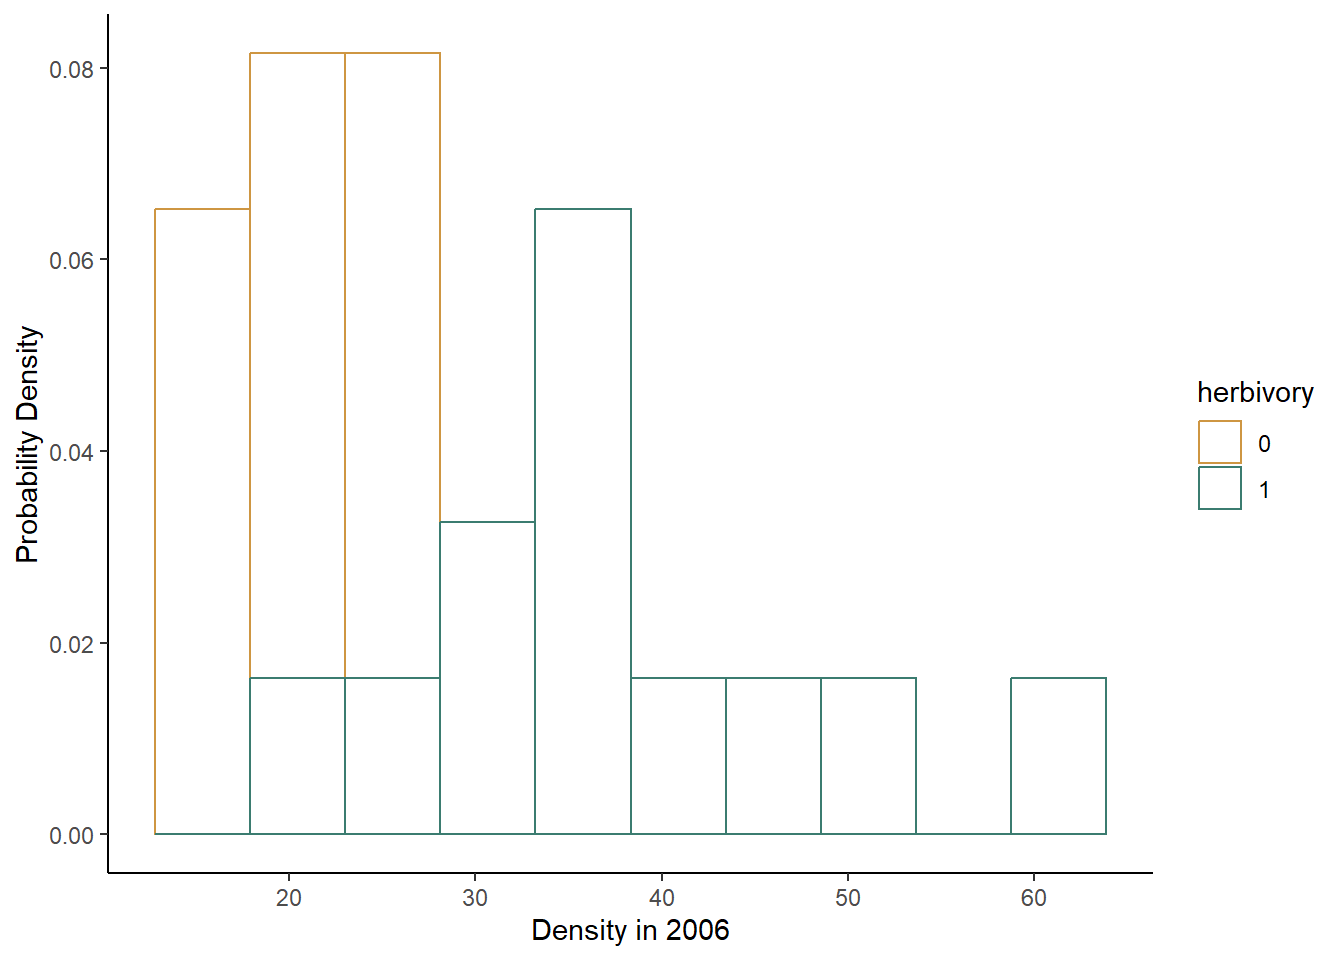
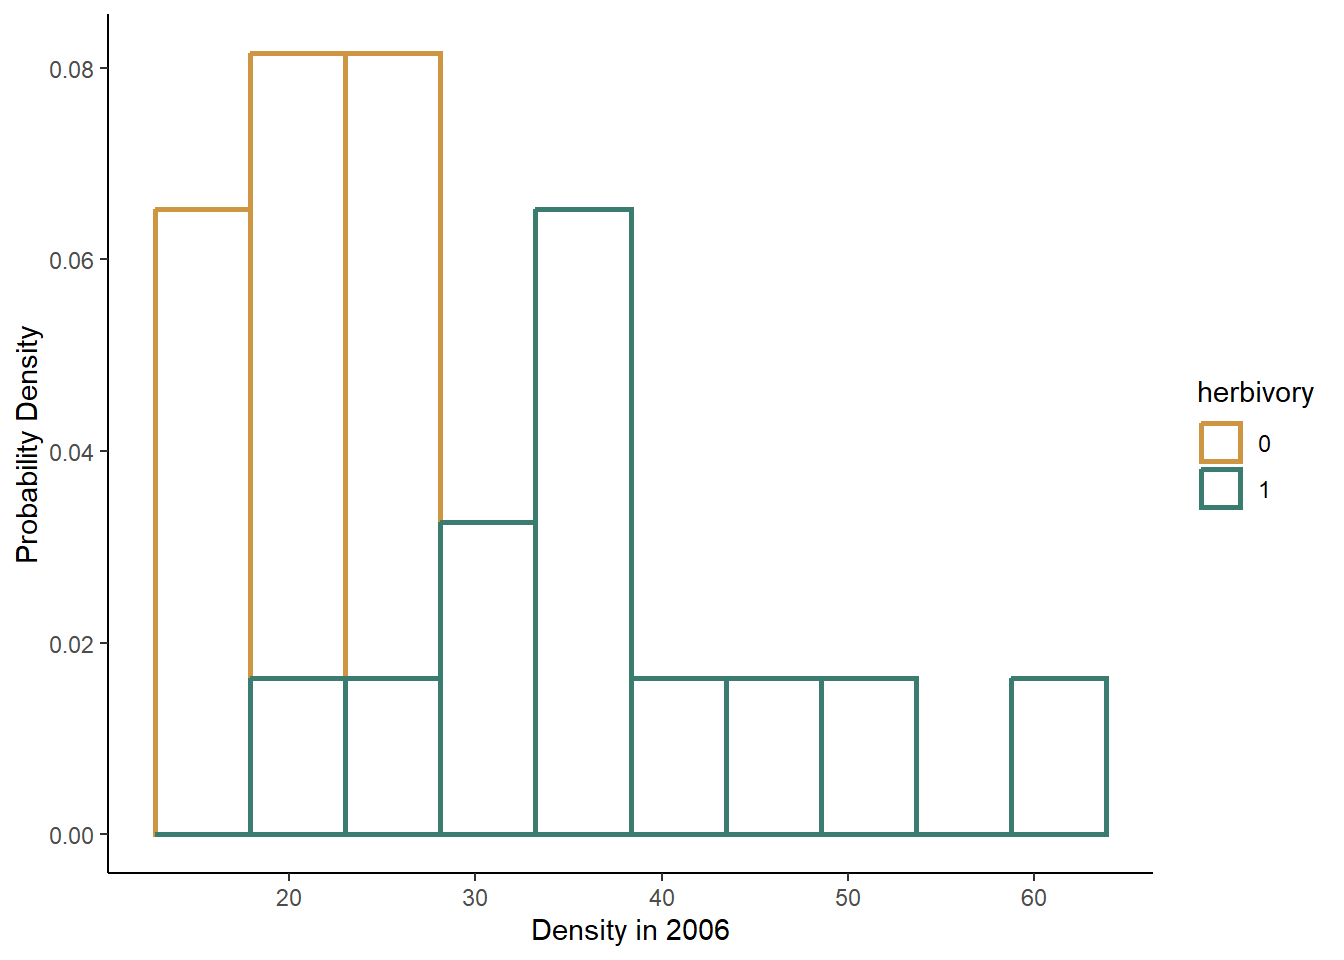
Update lesson 6 and add team challenge

diff --git a/docs/RHandbook_6.html b/docs/RHandbook_6.html
@@ -325,6 +325,8 @@ variable</a></li>
 <li><a href="#continuous-predictor-variable"
 id="toc-continuous-predictor-variable">6.2 Continuous predictor
 variable</a></li>
+<li><a href="#team-challenge" id="toc-team-challenge">Team
+challenge</a></li>
 </ul></li>
 </ul>
 </div>
@@ -336,9 +338,10 @@ in R. In this lesson, you will learn different ways of visualizing these
 models. For this lesson, we will work with the same models you built in
 Lesson 5, so go ahead and open your R script from lesson 5. You can add
 the code for this Lesson to the same script file, if you would like.</p>
-<p>We will use the <strong>ggplot2</strong> package to create these
-graphs, so load that package now.</p>
-<pre class="r"><code>library(ggplot2)</code></pre>
+<p>We will use the <strong>ggplot2</strong> package in the
+<strong>tidyverse</strong> set of packages to create these graphs, so
+load <strong>tidyverse</strong> now.</p>
+<pre class="r"><code>library(tidyverse)</code></pre>
 <div id="discrete-predictor-variable" class="section level3">
 <h3>6.1 Discrete predictor variable</h3>
 <p>We will once again start with our civu example with a discrete
@@ -354,42 +357,48 @@ allow you to visualize how the distribution of the data compares to the
 distribution predicted by the model.</p>
 <div id="box-plots" class="section level4">
 <h4>Box plots</h4>
-<p>The first type of graph we will make is a boxplot. Good news! You
-already practiced making this type of plot in Lesson 4!</p>
+<p>The first type of graph we will make is a boxplot. Box plots allow us
+to visualize the effect of a categorical independent variable on a
+continuous dependent variable.</p>
 <p>As I mentioned, this type of plot does not explicitly incorporate the
 model output. However it will show information similar to the parameters
 R calculated when you ran the models in R: central tendency and
 variation.</p>
-<p>Let’s start with our box plot for our null model. Just like when we
-worked with ggplot in the past, we will start by specifying the data and
-variables we want to include in our graph. Then we add layers to the
-code to specify the type of graph we want. For this first graph, we will
-use the civu data set. Because this is our null model, we are assuming
-that herbivory does not affect plant density, so we just want to graph a
-single distribution for all of our data. Therefore, unlike when we
-created box plots before, when we specified both and x and y variable,
-we will just specify the y variable this time (our plant density
-variable). In the following lines of code, we tell R to make a box plot,
-change the axis label, and use the classic theme that removes the
-background color and gridlines. Because R likely classified our
+<p>Typically researchers don’t make separate boxplots to represent the
+null and alternative models. The graph we will make will show separate
+distributions for each category, so we can visually compare them to
+determine if they look similar (null model) or different (alternative
+model).</p>
+<p>Just like when we worked with ggplot in the past, we will start by
+specifying the data and variables we want to include in our graph. Then
+we add layers to the code to specify the type of graph we want. For this
+first graph, we will use the civu data set. Because we are now
+interested in two variables, our independent (herbivory treatment) and
+dependent (plant density) variables, we will first specify both our and
+x and y variable. In the following lines of code, we tell R to make a
+box plot, change the axis label, and use the classic theme that removes
+the background color and gridlines. Because R likely classified our
 herbivory treatment variable as a numeric variable when we loaded the
 data, we will also reclassify that variable as a factor before we make
 our graph.</p>
 <pre class="r"><code>civu$herbivory &lt;- as.factor(civu$herbivory)
 
-ggplot(data = civu, aes(y = density_2006)) +
-  geom_boxplot() +
-  labs(y = &quot;Density in 2006&quot;) +
-  theme_classic()</code></pre>
-<p><img src="RHandbook_6_files/figure-html/null_box-1.png" width="672" /></p>
-<p>Now let’s make an equivalent plot for our alternative model. We will
-make a box plot, just as before, but this time including herbivory as
-our x variable.</p>
-<pre class="r"><code>ggplot(data = civu, aes(x = herbivory, y = density_2006)) +
+ggplot(data = civu, aes(x = herbivory, y = density_2006)) +
   geom_boxplot() +
   labs(x = &quot;Herbivory treatment&quot;, y = &quot;Density in 2006&quot;) +
   theme_classic()</code></pre>
 <p><img src="RHandbook_6_files/figure-html/alt_box-1.png" width="672" /></p>
+<p>If you are unfamiliar with box plots, they show both a measure of the
+central tendency (usually the median) and the variation in the dependent
+variable for each category. With the default settings in
+<strong>ggplot2</strong> The median for each group is shown by the bar
+in the middle of each box. The boxes show the inter-quartile range
+(i.e., the bottom of the box shows the first quartile and the top of the
+box shows the third quartile). Therefore, 50% of the values in the data
+fall within the box. The whiskers (vertical lines you might see below
+and/or above the box) show the smallest and largest values in the data
+set that are no farther than 1.5 times the inter-quartile range from the
+first and third quartile, respectively.</p>
 <p>This type of plot is commonly used both in exploratory analysis and
 as a final plot that might be included in a manuscript. Although it does
 not explicitly use the output of the model, I will always accept this
@@ -400,7 +409,7 @@ and how that distribution might vary between categories.</p>
 <h4>Density Plots</h4>
 <p>The second type of plot we will make is more complicated and probably
 less commonly used. However, I want you to create them in this exercise
-for two reasons:</p>
+for three reasons:</p>
 <ol style="list-style-type: decimal">
 <li><p>This type of plot reinforces that when we build models, we are
 using our data to estimate the parameters of a distribution that we
@@ -408,6 +417,8 @@ think represents the distribution of our variable in the underlying
 population. It will also allow you to visualize how the estimated
 distribution compares to the actual distribution of your sample
 data.</p></li>
+<li><p>It provides more information about the entire distribution of
+your data.</p></li>
 <li><p>It will demonstrate how to use ggplot to add multiple layers to
 the same graph.</p></li>
 </ol>
@@ -417,10 +428,14 @@ your own, you may stick with box plots for visualizing your own
 data.</p>
 <div id="null-model" class="section level5">
 <h5>Null model</h5>
-<p>We will start with the graph for the null model. We will take this in
-steps, first creating a histogram of our sample data, which should be
-familiar from Lesson 4. Then we will add another layer to the plot with
-the distribution estimated from our model.</p>
+<p>Because this type of graph directly ties our data to our modeled
+distributions, we will first explicitly make a graph of the null model
+to reinforce that the null model assumes the distribution of our
+dependent variable (plant density) does not depend on our independent
+variable (herbivory).</p>
+<p>We will take this in steps, first creating a histogram of our sample
+data, which should be familiar from Lesson 4. Then we will add another
+layer to the plot with the distribution estimated from our model.</p>
 <p>Let’s create our histogram. Our null model assumes the distribution
 of plant density does not depend on the herbivory treatment, so for this
 graph, we will just make a single histogram of all of our density data.
@@ -436,11 +451,11 @@ Therefore, in order to compare the sample distribution and the estimated
 distribution, we will convert the frequency to the probability density.
 You can see this step in the second line of code below, as an argument
 in the <code>geom_histogram</code> function. The argument we add is
-<code>aes(y=after_stat(density))</code>. This argument tells R to
-calculate the probability density and use that as our y variable in
-place of the frequency. Try it out!</p>
+<code>aes(y=..density..)</code>. This argument tells R to calculate the
+probability density and use that as our y variable in place of the
+frequency. Try it out!</p>
 <pre class="r"><code>ggplot(data = civu, aes(x = density_2006))+
-  geom_histogram(aes(y=after_stat(density)),bins = 10) +
+  geom_histogram(aes(y=..density..),bins = 10) +
   labs(x = &quot;Density in 2006&quot;, y = &quot;Probability Density&quot;) +
   theme_classic()</code></pre>
 <p><img src="RHandbook_6_files/figure-html/null_hist-1.png" width="672" /></p>
@@ -545,14 +560,15 @@ clear!</p>
 <p>We will again start by making the histogram of sample data. We will
 graph the data for each treatment in a different color, so we can see
 how herbivory affects the distribution of plant density. To do this, we
-will add a “colour = herbivory” argument <em>inside</em> the
+will add a <code>colour = herbivory</code> argument <em>inside</em> the
 <code>aes</code> function in the <code>geom_histogram</code> command.
 This tells ggplot to create a histogram of plant densities for each
-treatment, and use a separate color for each. The other argument we will
-add <em>outside</em> the <code>aes</code> function is the “fill = NA”
-argument, which tells ggplot not to add a fill color to the histogram
-bars. This will just make it easier to see everything after we add the
-other layer.</p>
+treatment, and use a separate color for each. The other arguments we
+will add <em>outside</em> the <code>aes</code> function are the
+<code>fill = NA</code> argument, which tells ggplot not to add a fill
+color to the histogram bars, and <code>linewidth = 1</code>, which
+increases the widths of the bar outlines. This will just make it easier
+to see everything after we add the other layer.</p>
 <p>We will also manually set the colors we want ggplot to use. The
 default color palette used by R is not colorblind friendly, so I always
 like to choose colorblind friendly options instead. There are a number
@@ -564,7 +580,7 @@ using the <code>scale_colour_manual</code> function, and we can simply
 provide ggplot with the hex codes we want using the “values”
 argument.</p>
 <pre class="r"><code>ggplot(data = civu, aes(x = density_2006))+
-  geom_histogram(aes(y=after_stat(density), colour = herbivory), fill = NA, bins = 10) +
+  geom_histogram(aes(y=after_stat(density), colour = herbivory), fill = NA, bins = 10,linewidth = 1) +
   scale_colour_manual(values=c(&quot;#ce9642&quot;,&quot;#3b7c70&quot;)) +
   labs(x = &quot;Density in 2006&quot;, y = &quot;Probability Density&quot;) +
   theme_classic()</code></pre>
@@ -641,7 +657,7 @@ syntax is the same as for line color, but this time the function is
 <code>scale_fill_manual</code>.</p>
 <pre class="r"><code>ggplot(data = civu, aes(x = density_2006))+
   geom_density(data = civu_alt_data, aes(x = Density, y = Probability, fill = Herbivory, colour = Herbivory), stat=&quot;identity&quot;, alpha = 0.3) +
-  geom_histogram(aes(y=after_stat(density), colour = herbivory),fill = NA , bins = 10) +
+  geom_histogram(aes(y=after_stat(density), colour = herbivory),fill = NA , bins = 10,linewidth = 1) +
   scale_colour_manual(values=c(&quot;#ce9642&quot;,&quot;#3b7c70&quot;)) +
   scale_fill_manual(values=c(&quot;#ce9642&quot;,&quot;#3b7c70&quot;)) +
   labs(x = &quot;Density in 2006&quot;, y = &quot;Probability Density&quot;) +
@@ -663,17 +679,27 @@ that impacts the aesthetics of the graph!</p>
 variable and a continuous dependent variable. This will be easy compared
 to the previous set of graphs you made! To visualize these models, we
 will use scatter plots of the sample data along with best fit lines to
-represent the distributions predicted by the models.</p>
+represent the distributions predicted by the models. Scatter plots are a
+good way to visualize the relationship between two continuous variable,
+so we can see how strongly they might be correlated and whether the
+relationship is positive or negative.</p>
 <p>If you haven’t already, use the script file from Lesson 5 to run all
 of the code you wrote for the tree example, including the building of
 both the null and alternative models. Be sure you first have your
 working directory set to the folder containing the DataFrameExample data
 set.</p>
+<p>As with the box plots, it is not typical to make separate graphs for
+the null and alternative models. People usually just add the best fit
+line, representing the alternative model and visually assess if the
+slope looks different than zero. For demonstration purposes, in this
+lesson, we will make a graph to explicitly represent the null model, but
+going forward, you are welcome to just make the alternative model
+version unless instructed otherwise.</p>
 <div id="null-model-1" class="section level4">
 <h4>Null model</h4>
 <p>Let’s start with the null model: temperature does not affect the
-growth of trees. We’ll make the scatter plot of the sample data first.
-This is the same method we used to make scatter plots in Lesson 4.</p>
+growth of trees.</p>
+<p>We’ll make the scatter plot of the sample data first.</p>
 <pre class="r"><code>ggplot(data = tree, aes(x = Temperature, y = Growth))+
   geom_point() +
   labs(x = &quot;Temperature&quot;, y = &quot;Growth&quot;) +
@@ -760,70 +786,30 @@ measures (as well as variance and standard deviation) are acceptable
 ways of representing the variation. What is important is that when you
 present your results, you make it clear in your figure captions and text
 what measure of variation you used.</p>
+<p>There are many different types of graphs and ways we can modify our
+graphs using ggplot. We will cover some of these in future lessons as we
+get into inferential statistics. But these three types of graphs will
+give you a good starting point for exploring your own data sets!</p>
 <p>You have now gone through the whole process of building and
 visualizing statistical models! In the upcoming lessons, we will focus
 on how we do formal comparisons of models to determine which model(s)
 best represent our data.</p>
 </div>
-<div id="scatter-plots" class="section level4">
-<h4>Scatter plots</h4>
-<p>Scatter plots are a good way to visualize the relationship between
-two continuous variable, so we can see how strongly they might be
-correlated and whether the relationship is positive or negative.</p>
-<p>Here, we will make a scatter plot to show the relationship between
-density_2006 and density_2007.</p>
-<pre class="r"><code>ggplot(data = civu, aes(x = density_2006, y = density_2007)) +
-  geom_point()</code></pre>
-<p><img src="RHandbook_6_files/figure-html/scatter-1.png" width="672" /></p>
-<p>Notice the code is very similar to what we used to make the
-histogram. The first line is identical, except that we add a second
-variable, our y variable, in the aes argument. The second line is
-similar, except that we use the <code>geom_point</code> function to
-create a graph instead of a histogram.</p>
-<p>Now let’s also change our axis labels and theme, as we did for the
-histogram:</p>
-<pre class="r"><code>ggplot(data = civu, aes(x = density_2006, y = density_2007)) +
-  geom_point() +
-  labs(x = &quot;Density in 2006&quot;, y = &quot;Density in 2007&quot;) +
-  theme_classic()</code></pre>
-<p><img src="RHandbook_6_files/figure-html/scatter_theme-1.png" width="672" /></p>
 </div>
-<div id="box-plots-1" class="section level4">
-<h4>Box plots</h4>
-<p>Box plots allow us to visualize the effect of a categorical
-independent variable on a continuous dependent variable. We will make a
-box plot showing how the herbivory treatment affected the density_2006
-variable.</p>
-<p>First, we need to change the herbivory variable from an integer
-variable to a factor variable, because we are using herbivory as a
-categorical variable. We did this in the data frame practice problems as
-well.</p>
-<pre class="r"><code>civu$herbivory &lt;- as.character(civu$herbivory)</code></pre>
-<p>Now we are ready to make our box plot. The set up will be similar to
-the code for the previous plots, except we are changing our x and y
-variables in the first line of code and changing our plot type in the
-second line of code. We will also change the axis labels and theme in
-this plot.</p>
-<pre class="r"><code>ggplot(data = civu, aes(x = herbivory, y = density_2006)) +
-  geom_boxplot() +
-  labs(x = &quot;Herbivory treatment&quot;, y = &quot;Density in 2006&quot;) +
-  theme_classic()</code></pre>
-<p><img src="RHandbook_6_files/figure-html/boxplot-1.png" width="672" /></p>
-<p>If you are unfamiliar with box plots, they show both a measure of the
-central tendency (usually the median) and the variation in the dependent
-variable for each category. The median for each group is shown by the
-bar in the middle of each box. The boxes show the inter-quartile range
-(i.e., the bottom of the box shows the first quartile and the top of the
-box shows the third quartile). Therefore, 50% of the values in the data
-fall within the box. The whiskers (vertical lines you might see below
-and/or above the box) show the smallest and largest values in the data
-set that are no farther than 1.5 times the inter-quartile range from the
-first and third quartile, respectively.</p>
-<p>There are many different types of graphs and ways we can modify our
-graphs using ggplot. We will cover some of these in future lessons as we
-get into inferential statistics. But these three types of graphs will
-give you a good starting point for exploring your own data sets!</p>
-</div>
+<div id="team-challenge" class="section level3">
+<h3>Team challenge</h3>
+<ol style="list-style-type: decimal">
+<li><p>In the team challenge for lesson 5, you built models to test the
+effect of herbivory on the density of thistles in 2007 instead of 2006
+(the density_2007 variable). Make at least one type of graph to
+visualize the effect of herbivory on the density of thistles in
+2007.</p></li>
+<li><p>In the second lesson 5 team challenge activity, you built a model
+comparing temperature and tree growth, but using the log of Growth,
+instead of the original Growth variable, as the dependent variable. Make
+a scatter plot with a best fit line to show the relationship between
+temperature and log of Growth.</p></li>
+</ol>
 </div>
 </div>
 
